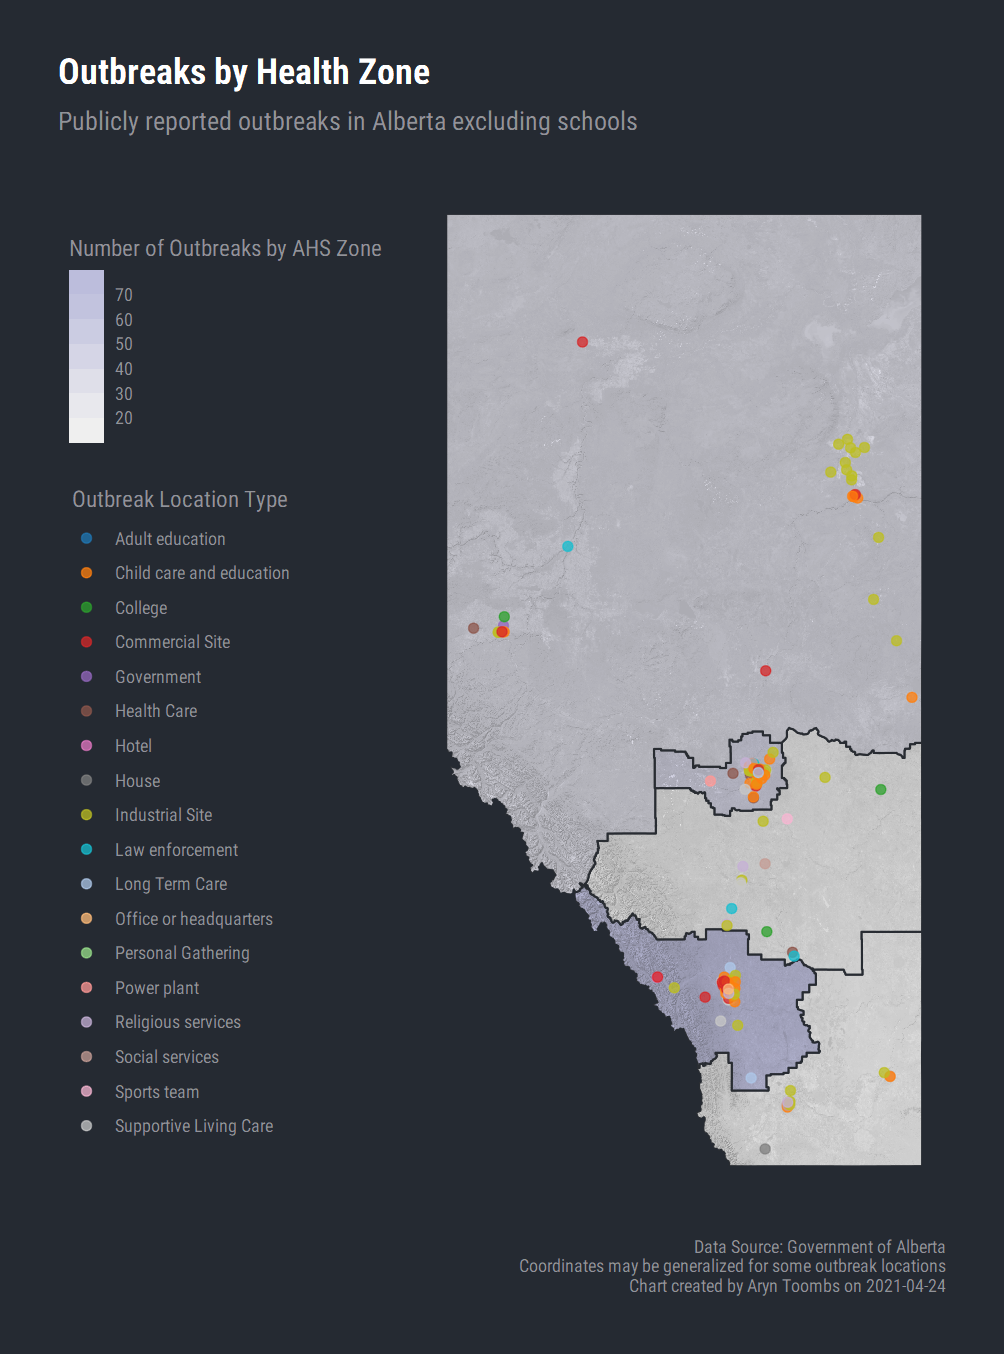
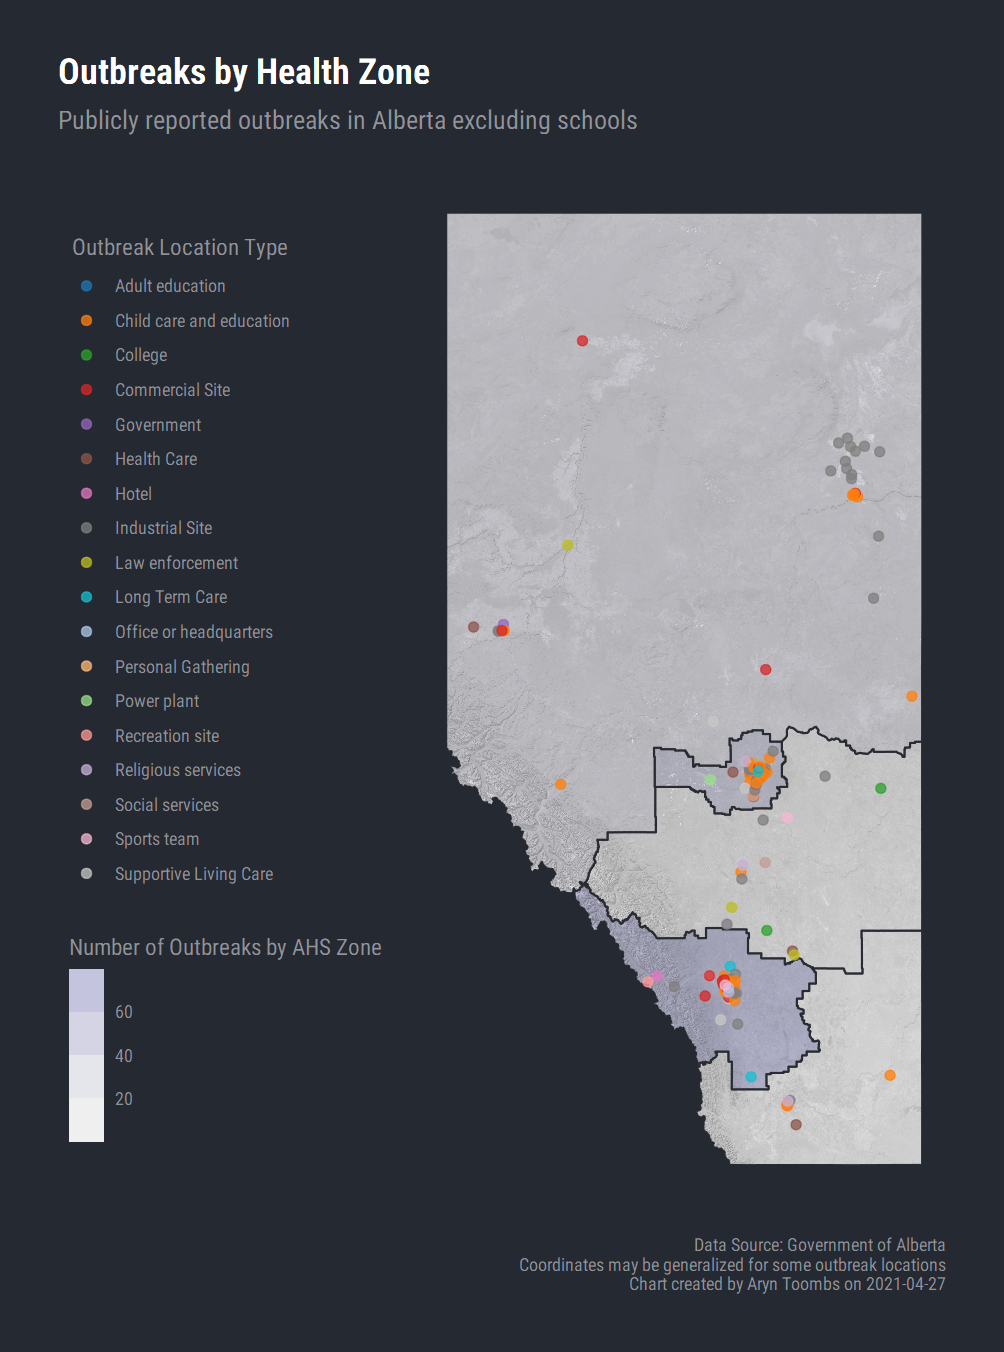
Web

diff --git a/outbreaks/index.html b/outbreaks/index.html
@@ -148,7 +148,7 @@
       Calgary Zone
     </div>
     <div class="row box-bottom justify-content-center">
-      <h4>71</h4>
+      <h4>77</h4>
     </div>
   </div>
   <div class="col-sm ml-1 mr-1">
@@ -156,7 +156,7 @@
       Edmonton Zone
     </div>
     <div class="row box-bottom justify-content-center">
-      <h4>48</h4>
+      <h4>53</h4>
     </div>
   </div>
   <div class="col-sm ml-1 mr-1">
@@ -172,7 +172,7 @@
       Central Zone
     </div>
     <div class="row box-bottom justify-content-center">
-      <h4>17</h4>
+      <h4>20</h4>
     </div>
   </div>
   <div class="col-sm ml-1 mr-1">
@@ -180,12 +180,12 @@
       North Zone
     </div>
     <div class="row box-bottom justify-content-center">
-      <h4>33</h4>
+      <h4>35</h4>
     </div>
   </div>
 </div>
 <div class="row mb-3 pr-1 pt-1 justify-content-end">
-  <p class="m-1"><i class="bi bi-info-circle-fill"></i> Covid-19 outbreaks (not including schools, see below) current as of Sat, Apr 24, 2021. AHS non-school outbreak data updated on Tuesdays and Fridays.</p>
+  <p class="m-1"><i class="bi bi-info-circle-fill"></i> Covid-19 outbreaks (not including schools, see below) current as of Tue, Apr 27, 2021. AHS non-school outbreak data updated on Tuesdays and Fridays.</p>
 </div>
   <div class="row pl-3">
     <h4 class="body-display">Outbreak Charts</h4>
